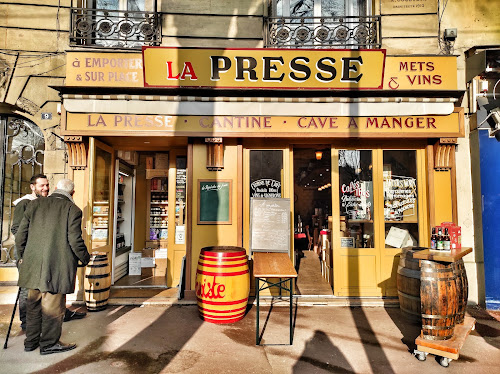
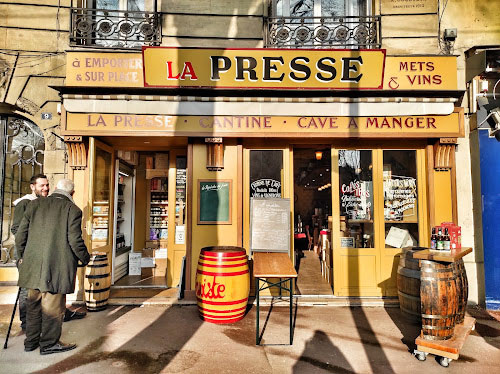
compress images

Changed region(s): [[0.87, 0.5882, 0.9, 0.6176], [0.63, 0.1765, 0.66, 0.2059], [0.42, 0.7647, 0.45, 0.7941]]

diff --git a/src/components/District.jsx b/src/components/District.jsx
@@ -16,42 +16,42 @@ const DISTRICT_ITEMS = [
     title: "La Fromagerie",
     description: "La fromagerie du Général, discover a selection of fine French cheeses, warmly served with exceptional hospitality — and take home a true taste of France to savor.",
     link: "https://www.google.com/maps/place/La+Fromagerie+du+G%C3%A9n%C3%A9ral/@48.9014321,2.3153564,67m/data=!3m1!1e3!4m14!1m7!3m6!1s0x47e66f65e0fd3415:0xd4a31f16235b7c57!2sLa+Tribu!8m2!3d48.9018186!4d2.3148207!16s%2Fg%2F11jz08jghm!3m5!1s0x47e66fc2763db8b1:0xb8a446dea62070c8!8m2!3d48.9013224!4d2.3155804!16s%2Fg%2F11r8thcjc5!5m1!1e1?entry=ttu&g_ep=EgoyMDI1MDgxMC4wIKXMDSoASAFQAw%3D%3D",
-    imgSrc: "/img/district/fromagerie-clichy.webp",
+    imgSrc: "/img/district/fromagerie-clichy.jpg",
     imgAlt: "Fromagerie à Clichy",
   },
   {
     title: "La Boulangerie",
     description: "Epicureo offers the neighborhood’s best baguettes, croissants, and pain au chocolat, all homemade with quality ingredients — plus delicious pastries you can enjoy on-site with a coffee.",
     link: "https://www.google.com/maps/place/Boulangerie+EPICUREO/@48.902165,2.3139263,50m/data=!3m2!1e3!5s0x47e66f0f52bb837b:0xefb97a7eabcfe049!4m14!1m7!3m6!1s0x47e66f65e0fd3415:0xd4a31f16235b7c57!2sLa+Tribu!8m2!3d48.9018186!4d2.3148207!16s%2Fg%2F11jz08jghm!3m5!1s0x47e66f565283f161:0xc56a6b525af2fa33!8m2!3d48.9022674!4d2.3138431!16s%2Fg%2F11sfx38sbq!5m1!1e1?entry=ttu&g_ep=EgoyMDI1MDgxMC4wIKXMDSoASAFQAw%3D%3D",
-    imgSrc: "/img/district/epicureo.webp",
+    imgSrc: "/img/district/epicureo.jpg",
     imgAlt: "Boulangerie à Clichy",
   },
   {
     title: "Pizza Time !",
     description: "Pizzeria Marguerite serves delicious pizzas from a varied menu, available to enjoy on-site or take away, in a modern setting with friendly staff — a must-visit when a pizza craving strikes.",
     link: "https://www.google.com/maps/place/Marguerite+-+Restaurant+Italien+Clichy/@48.9015526,2.3155077,90m/data=!3m1!1e3!4m14!1m7!3m6!1s0x47e66f65e0fd3415:0xd4a31f16235b7c57!2sLa+Tribu!8m2!3d48.9018186!4d2.3148207!16s%2Fg%2F11jz08jghm!3m5!1s0x47e66f060b671215:0x90079723d14576d2!8m2!3d48.9018578!4d2.3159137!16s%2Fg%2F11bzsd0d4z!5m1!1e1?entry=ttu&g_ep=EgoyMDI1MDgxMC4wIKXMDSoASAFQAw%3D%3D",
-    imgSrc: "/img/district/pizzeria-marguerite.webp",
+    imgSrc: "/img/district/pizzeria-marguerite.jpg",
     imgAlt: "Pizza à Clichy",
   },
   {
     title: "GOOD French Restaurant",
     description: "La Tribu, a cozy neighborhood restaurant serving homemade, seasonal dishes that evoke the warmth of family meals and timeless comfort food.",
     link: "https://www.google.com/maps/place/La+Tribu/@48.9018221,2.3122458,645m/data=!3m2!1e3!4b1!4m6!3m5!1s0x47e66f65e0fd3415:0xd4a31f16235b7c57!8m2!3d48.9018186!4d2.3148207!16s%2Fg%2F11jz08jghm!5m1!1e1?entry=ttu&g_ep=EgoyMDI1MDgxMC4wIKXMDSoASAFQAw%3D%3D",
-    imgSrc: "/img/district/tribue-clichy.webp",
+    imgSrc: "/img/district/tribue-clichy.jpg",
     imgAlt: "La tribu à Clichy",
   },
   {
     title: "AsianFood",
     description: "Le Mékong a cozy neighborhood Asian restaurant serving generous and delicious bún bò. Friendly staff and a warm atmosphere make it a go-to spot. Just steps from the apartment, perfect for anyone craving a BoBun fix!",
     link: "https://maps.app.goo.gl/pnAyF7hQNSdoAEsr9",
-    imgSrc: "/img/asia.webp",
+    imgSrc: "/img/asia.jpg",
     imgAlt: "La tribu à Clichy",
   },
   {
     title: "Restaurant Rosette",
     description: "Just a 15-minute walk from the apartment and proudly listed in the Michelin Guide’s Bib Gourmand selection. It serves refined, thoughtfully crafted dishes made with quality ingredients — all at a very reasonable price. A true gem in Clichy",
     link: "https://maps.app.goo.gl/69maaQXCaiNhiWYD6",
-    imgSrc: "/img/district/rosette.webp",
+    imgSrc: "/img/district/rosette.jpg",
     imgAlt: "Rosette à Clichy",
   },
   {

diff --git a/src/components/FoodParis.jsx b/src/components/FoodParis.jsx
@@ -10,7 +10,7 @@ const RESTAURANTS = [
   {
     title: "Bouillon Chartier",
     description: " My favorite bouillon in Paris! Authentic, simple, with a super affordable menu and a setting that instantly takes you back to the Paris of the bouillon era. A real time travel… without breaking the bank.",
-    imgSrc: "/img/chartier.webp",
+    imgSrc: "/img/chartier.jpg",
     imgAlt: "Bouillon Chartier",
     siteUrl: "https://www.bouillon-chartier.com/",
     mapsUrl: "https://maps.app.goo.gl/nUUBFjresSEwNne99",
@@ -18,7 +18,7 @@ const RESTAURANTS = [
   {
     title: "Faggio",
     description: "Located in the 9th arrondissement, this spot serves delicious pizzas with perfectly crispy crusts, best enjoyed with a good Italian wine. Friendly service, and if you grab a seat on the small outdoor terrace, you can watch the world go by.",
-    imgSrc: "/img/faggio.webp",
+    imgSrc: "/img/faggio.jpg",
     imgAlt: "Faggio Paris pizza",
     siteUrl: "https://www.instagram.com/faggio_rochechouart/?hl=fr",
     mapsUrl: "https://maps.app.goo.gl/gMXvDk99J4sU23oh7",
@@ -26,7 +26,7 @@ const RESTAURANTS = [
   {
     title: "Colline d'Asie",
     description: "At the foot of Sacré-Cœur, this neighborhood institution serves up delicious bún bò for every taste. The menu also features other Asian dishes and a daily special. If you’re in the 18th and craving bún bò, this spot is a must-try.",
-    imgSrc: "/img/colline-dasie.webp",
+    imgSrc: "/img/colline-dasie.jpg",
     imgAlt: "Colline d'asie",
     siteUrl: "https://www.instagram.com/collinedasie_delsarte/",
     mapsUrl: "https://maps.app.goo.gl/bmdCgh7jnaW1mZ8t9",
@@ -50,7 +50,7 @@ const RESTAURANTS = [
   {
     title: "B.O.U.L.O.M",
     description: "Is a hidden gem in the north of the 18th arrondissement. From the outside, it may look like a simple bakery-restaurant, but walk through to the back and you’ll find a bright, spacious hall serving an all-you-can-eat French buffet. Cozy vibes, generous dishes, and authentic home-style cooking make it a true treat. Reservations are essential — and this is THE brunch to try in Paris.",
-    imgSrc: "/img/boulom.webp",
+    imgSrc: "/img/boulom.jpg",
     imgAlt: "B.O.U.L.O.M",
     siteUrl: "https://www.boulom.net/",
     mapsUrl: "https://maps.app.goo.gl/iFpnDsN6bTATJ1nh7",

diff --git a/src/components/CityPicks.jsx b/src/components/CityPicks.jsx
@@ -47,7 +47,7 @@ const SPOTS = [
     title: "Bring a picnic and enjoy the view",
     description:
       "Tucked away at the tip of the Île de la Cité, the Square du Vert-Galant is one of the most romantic spots in Paris. Perfect for an apéritif or a picnic for two, it offers stunning views of the Seine, the city’s monuments, and the ever-changing colors of the Parisian sky. Bring a picnic, a blanket to sit on, and let yourself be carried away by the magic of Paris. Paris, je t’aime..",
-    imgSrc: "/img/square2.png",
+    imgSrc: "/img/square2.jpg",
     imgAlt: "Square du Vert-Galant",
     siteUrl: "https://maps.app.goo.gl/uV92hjAVuKQatQ9T8",
     mapsUrl: "https://maps.app.goo.gl/DFY5vcPh7sjGSt4W7",
@@ -56,7 +56,7 @@ const SPOTS = [
     title: "Les Buttes-Chaumont",
     description:
       "A true landscaped gem in the heart of Paris, perfect for lounging on the sunny lawns at the end of the day, going for a run, or enjoying a drink in one of its charming pavilions. My personal favorite is Rosa Bonheur, a lively spot where all of Paris comes together for an evening aperitif in a unique setting. With its hills, waterfalls, and stunning viewpoints, the Buttes-Chaumont perfectly embody the charm of a Parisian landscaped park. If you get the chance, it’s well worth a visit!",
-    imgSrc: "/img/buttes.webp",
+    imgSrc: "/img/buttes.jpg",
     imgAlt: "Buttes Chaumont",
     siteUrl: "https://fr.wikipedia.org/wiki/Parc_des_Buttes-Chaumont",
     mapsUrl: "https://maps.app.goo.gl/N7SusQTKEQfT8ACR8",
@@ -74,7 +74,7 @@ const SPOTS = [
     title: "Église de Saint-Germain-des-Prés",
     description:
       "One of the best artisanal ice creams in Paris, Maison Berthillon is famous for its delicious, high-quality flavors, whether enjoyed on the spot or taken to go. It’s so good that there’s almost always a line — but trust me, it’s worth the wait. Once you have your cone or cup, stroll over to the quays of Île Saint-Louis and savor it by the Seine. A simple, nostalgic pleasure that feels purely magical.",
-    imgSrc: "/img/saintgermain.webp",
+    imgSrc: "/img/saintgermain.jpg",
     imgAlt: "Eglise Saint Germain",
     siteUrl: "https://eglise-saintgermaindespres.fr/",
     mapsUrl: "https://maps.app.goo.gl/6H733CUyEw89Cn6FA",

diff --git a/src/components/DrinkParis.jsx b/src/components/DrinkParis.jsx
@@ -10,7 +10,7 @@ const DRINK = [
   {
     title: "Le Syndicat",
     description: "Cocktail bar with a mission — showcasing French spirits in ways you’ve never experienced before. Every drink is a creative twist on tradition, blending bold flavors with undeniable French charm. The urban, understated décor sets the stage for a night of cocktails and music, while the exceptional bartenders deliver unmatched craftsmanship in every glass. This is where mixology meets art.",
-    imgSrc: "/img/syndicat.webp",
+    imgSrc: "/img/syndicat.jpg",
     imgAlt: "Le Syndicat",
     siteUrl: "https://domainesyndicat.com/",
     mapsUrl: "https://maps.app.goo.gl/JaN8TgocVD9WVsrK9",
@@ -50,7 +50,7 @@ const DRINK = [
 //   {
 //     title: "B.O.U.L.O.M",
 //     description: "Is a hidden gem in the north of the 18th arrondissement. From the outside, it may look like a simple bakery-restaurant, but walk through to the back and you’ll find a bright, spacious hall serving an all-you-can-eat French buffet. Cozy vibes, generous dishes, and authentic home-style cooking make it a true treat. Reservations are essential — and this is THE brunch to try in Paris.",
-//     imgSrc: "/img/boulom.webp",
+//     imgSrc: "/img/boulom.jpg",
 //     imgAlt: "B.O.U.L.O.M",
 //     siteUrl: "https://www.boulom.net/",
 //     mapsUrl: "https://maps.app.goo.gl/iFpnDsN6bTATJ1nh7",

diff --git a/src/components/Practical.jsx b/src/components/Practical.jsx
@@ -8,7 +8,7 @@ const LINES = [
     name: "Line 14",
     description:
       "Just a bit over 5 minutes from the apartment, *Saint-Ouen station* on Line 14 is the nearest stop and the newest, fully automated metro line in Paris. It runs from 5:30 AM to around 1:00 AM, connecting you to key landmarks such as Gare Saint-Lazare, Châtelet, Louvre Pyramide, Gare de Lyon, Bercy, Orly Airport, and even the Stade de France.",
-    imgSrc: "/img/ligne-14.webp",
+    imgSrc: "/img/ligne-14.jpg",
     imgAlt: "Paris Metro Line 14 map",
     ratpLink: "https://www.bonjour-ratp.fr/lignes-metro/ligne-14/",
     mapsLink: "https://maps.app.goo.gl/LT78AmdVdRgmByxv9",
@@ -17,7 +17,7 @@ const LINES = [
     name: "Line 13",
     description:
       "A little further away, *Mairie de Clichy station* on Line 13 takes you directly to Champs-Élysées – Clemenceau, Montparnasse, and other iconic spots in Paris. A great alternative for exploring different parts of the city.",
-    imgSrc: "/img/ligne-13.webp",
+    imgSrc: "/img/ligne-13.jpg",
     imgAlt: "Paris Metro Line 13 map",
     ratpLink: "https://www.ratp.fr/vos-lignes/metro/13",
     mapsLink:

diff --git a/src/components/NearbyHome.jsx b/src/components/NearbyHome.jsx
@@ -11,7 +11,7 @@ const NEARBY_SPOTS = [
     title: "Pharmacy",
     description:
       "Your go-to for medication, advice, and essentials.",
-    imgSrc: "/img/pharmacie.webp",
+    imgSrc: "/img/pharmacie.jpg",
     imgAlt: "Pharmacy near the apartment",
     mapsUrl: "https://maps.app.goo.gl/vWsVeXoe98iBuLBw6",
   },
@@ -28,7 +28,7 @@ const NEARBY_SPOTS = [
     title: "Cobbler",
     description:
       "Shoe repair, key cutting, leather care, quick and convenient.",
-    imgSrc: "/img/cordonier.png",
+    imgSrc: "/img/cordonier.jpg",
     imgAlt: "Cobbler near the apartment",
     mapsUrl: "https://maps.app.goo.gl/91QjsojA55STUBzv9",
   },
@@ -36,7 +36,7 @@ const NEARBY_SPOTS = [
     title: "BIG Supermarket",
     description:
       "All your daily groceries with extended hours and great selection.",
-    imgSrc: "/img/lecler02.webp",
+    imgSrc: "/img/lecler02.jpg",
     imgAlt: "Supermarket near the apartment",
     mapsUrl: "https://maps.app.goo.gl/RZAD9HDbf2jkVtFXA",
   },

diff --git a/src/components/FlatCarousel.jsx b/src/components/FlatCarousel.jsx
@@ -6,8 +6,8 @@ import Image from "next/image";
 import styles from "@/styles/components/flat-carousel.module.scss";
 
 const IMAGES = [
-  { src: "/img/home-01.png", alt: "Antoine HOMe" },
-  { src: "/img/home-02.png", alt: "Antoine HOMe" },
+  { src: "/img/home-01.jpg", alt: "Antoine HOMe" },
+  { src: "/img/home-02.jpg", alt: "Antoine HOMe" },
   { src: "/img/home-08.jpg", alt: "Antoine HOMe" },
   { src: "/img/home-10.jpg", alt: "Antoine HOMe" },
   { src: "/img/home-11.jpg", alt: "Antoine HOMe" },
